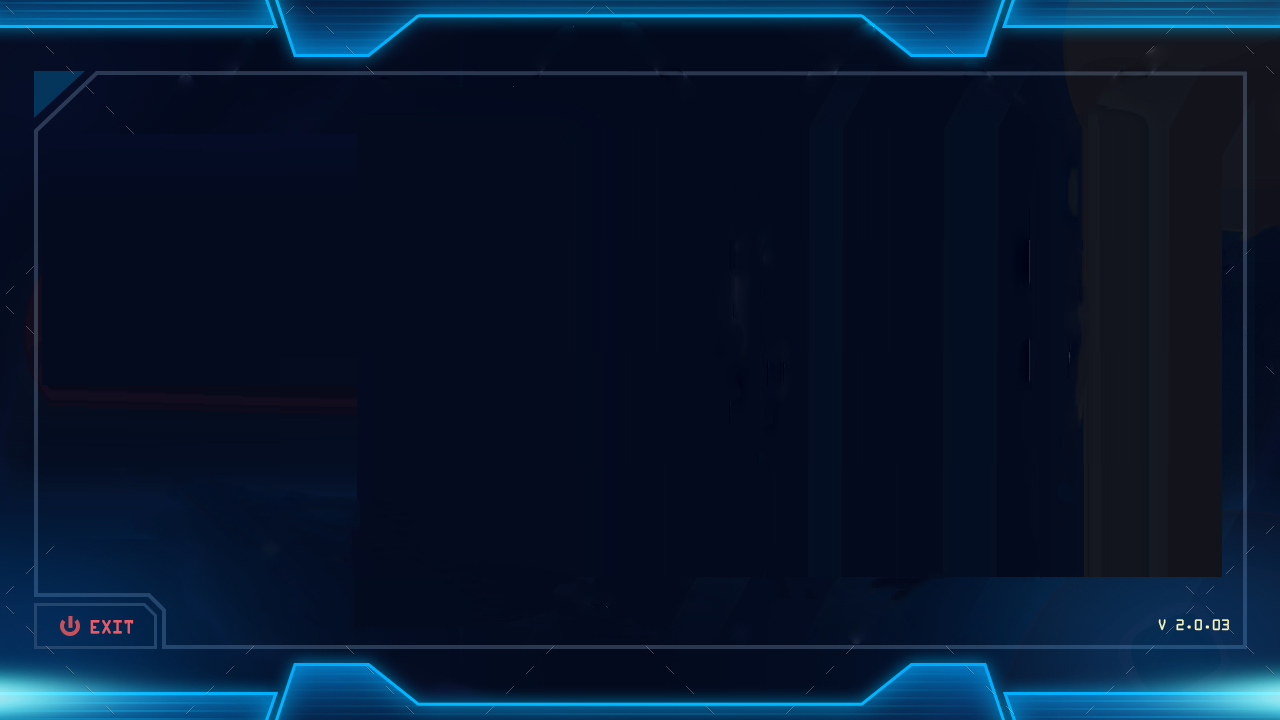
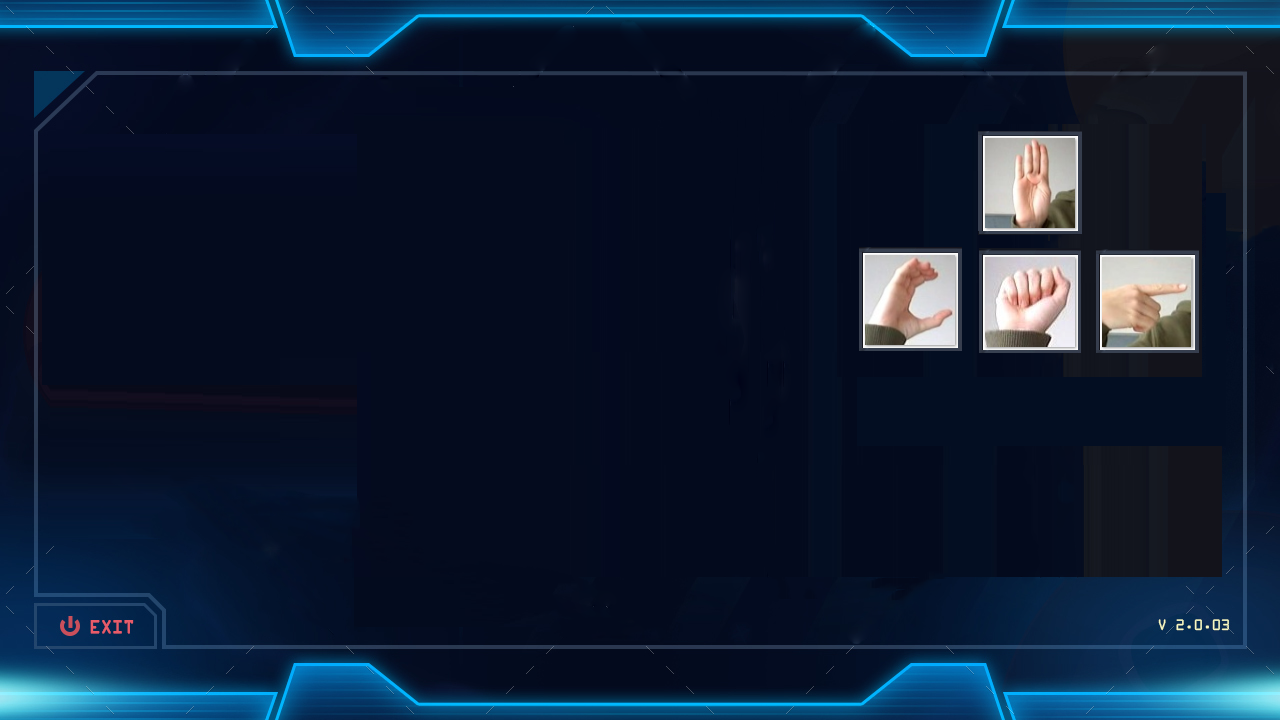
GUI

Changed region(s): [[0.6562, 0.1833, 0.9375, 0.4889]]

diff --git a/gui/builder.py b/gui/builder.py
@@ -6,28 +6,34 @@ import webcam.camera as wb
 class ElementBuilder:
     def __init__(self, master, window):
         master.title("Brick-It-On!")
-        master.config(background="#FFFFFF")
+        #master.config(background="#FFFFFF")
+
+        window.background_image = ImageTk.PhotoImage(Image.open('gui/background_clean.png'))
+        window.background_label = Label(master, image=window.background_image)
+        window.background_label.place(x=0, y=0, relwidth=1, relheight=1)
 
         # Top-left window = camera
         window.cam_window = Label(master, image=None)
-        window.cam_window.grid(row=0, column=0)
+        window.cam_window.grid(row=0, column=0, padx = 100, pady = 100)
 
         # Top-right window = instructions
+        '''
         nav_img = ImageTk.PhotoImage(Image.open('gui/nav.png'))
         window.instructions_window = Label(master, text="Instructions", image=nav_img)
         window.instructions_window.imgtk = nav_img
         window.instructions_window.grid(row=0, column=1, padx=50)
+        '''
 
         # Bot-left window = player stats
         window.stats_window = Label(master)
         window.stats_window.grid(row=1, column=0)
 
         # Bot-right window = buttons
-        window.control_window = Label(master)
-        window.control_window.grid(row=1, column=1)
+        window.control_window = Frame(master)
+        window.control_window.grid(row=0, column=1)
 
         # Player stats setup
-        window.player_frame = Frame(window.stats_window)
+        window.player_frame = Frame(window.stats_window,)
         window.player_frame.grid(row=0, column=0)
         window.player1_label = Label(window.player_frame, text='Player 1 score:', font=25)
         window.player1_label.grid(row=0, column=0, sticky='W', padx=75, pady=20)
@@ -40,12 +46,14 @@ class ElementBuilder:
 
         # Control buttons setup
         window.cap_gest_button = Button(window.control_window, text='capture gesture')
-        window.cap_gest_button.pack(side='left', padx=10)
+        window.cap_gest_button.pack(side='left', padx=10, )
         #window.start_button_label = Label(window.instructions_window)
         #window.start_button_label.grid(row=0, column=0, sticky='w')
-        window.start_button = Button(window.control_window, text='start')
-        window.start_button.pack(side='left', padx=10)
+        #window.start_button = Button(window.control_window, text='start')
+        #window.start_button.pack(side='left', padx=10)
         #window.next_button_label = Label(window.instructions_window)
         #window.next_button_label.grid(row=0, column=1)
-        window.next_button = Button(window.control_window, text='next')
+        self.tmpI = Image.open("gui/next.png")
+        self.imgtk2 = ImageTk.PhotoImage(file="gui/next.png")
+        window.next_button = Button(window.control_window, image=self.imgtk2, justify=RIGHT)
         window.next_button.pack(side='left', padx=10)

diff --git a/gui/interface.py b/gui/interface.py
@@ -20,9 +20,9 @@ class Interface:
 
         builder.ElementBuilder(self.master, self)
 
-        self.cap_gest_button.configure(command=self.capture)
-        self.next_button.configure(command=self.switchPlayer)
-        self.start_button.configure(command=self.restartGame)
+        #self.cap_gest_button.configure(command=self.capture)
+        #self.next_button.configure(command=self.switchPlayer)
+        #self.start_button.configure(command=self.restartGame)
 
         self.spawnThreads()
 
@@ -96,6 +96,7 @@ class Interface:
         q = queue.Queue()
 
         root = Tk()
+        #root.wm_attributes('-transparentcolor', root['bg'])
         my_gui = Interface(root, q)
         my_gui.app = app
         root.protocol("WM_DELETE_WINDOW", my_gui.quit)

diff --git a/webcam/hand.py b/webcam/hand.py
@@ -16,7 +16,7 @@ class Hand(Feeder):
         hsv = cv2.cvtColor(frame, cv2.COLOR_BGR2HSV)
         res_blue, mask_blue = self.blue_image(frame, hsv)
 
-        #cv2.imshow('mask', mask_blue)
+        cv2.imshow('mask', mask_blue)
         edges = cv2.Canny(res_blue, 100, 200)
         _, contours, hierarchy = cv2.findContours(edges, cv2.RETR_EXTERNAL, cv2.CHAIN_APPROX_SIMPLE)
 
